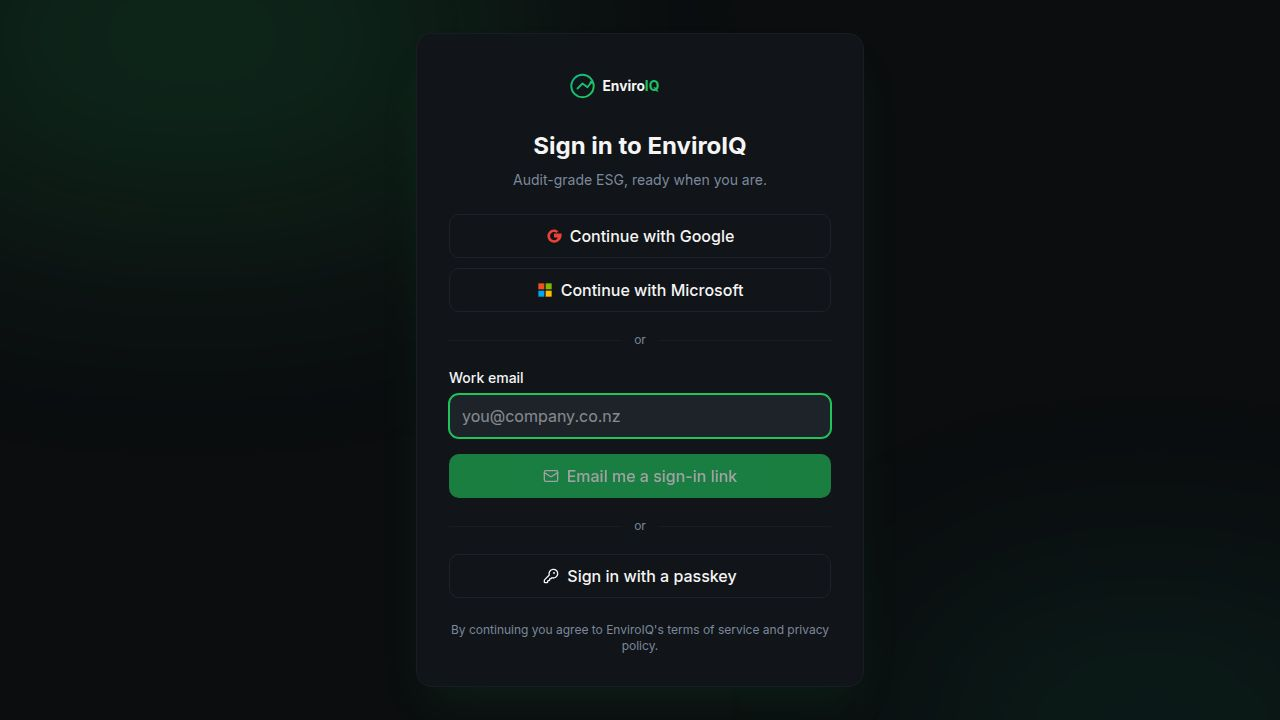
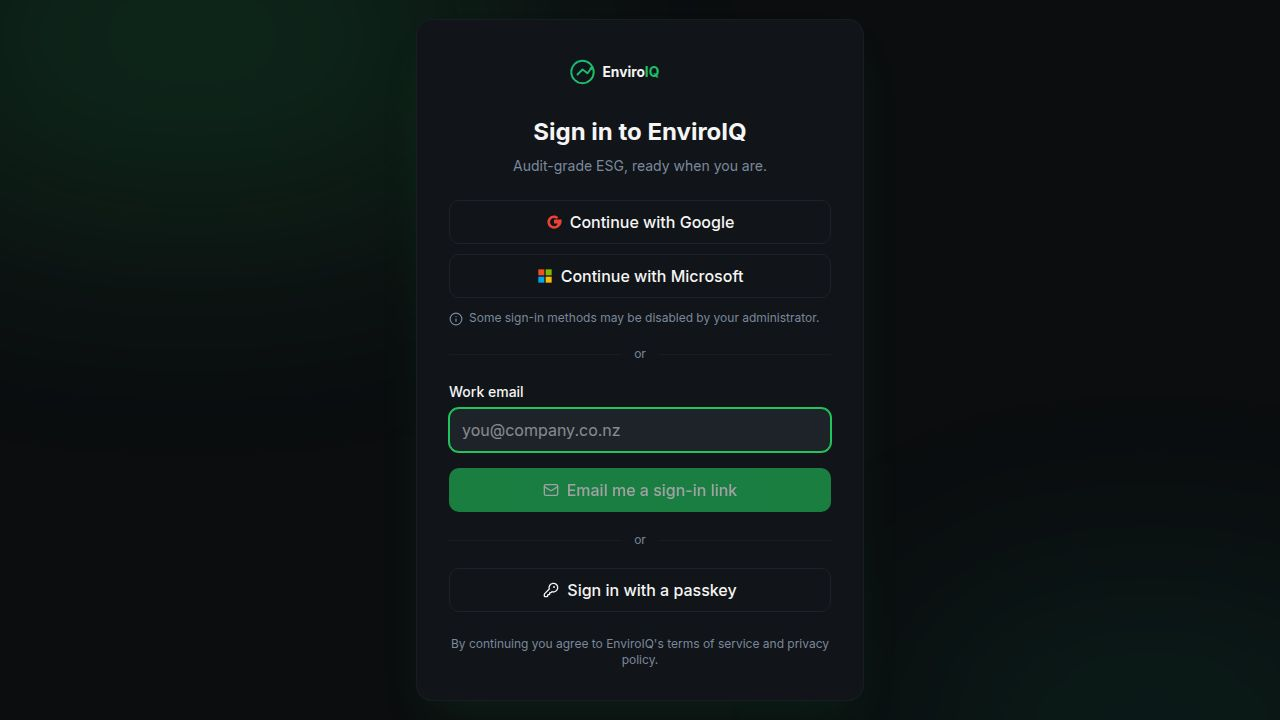
Show users which sign-in restrictions apply when they're blocked (Task #11)
Original task: when a user is refused by org/user sign-in policy after an SSO
callback, the existing flow redirected to /app/sign-in?error=... but the UI
showed the same small inline alert as every other error. Legitimate users
didn't realise they needed to switch buttons.

Changes:

1. artifacts/enviroiq/src/pages/sign-in.tsx
   - Added a subtle, always-visible generic hint below the SSO buttons:
     "Some sign-in methods may be disabled by your administrator." This
     gives every user the same wording so it never leaks who has which
     restrictions.
   - Added a prominent amber callout (ShieldAlert icon) at the top of the
     card for the three "method blocked by policy" error codes:
     sso_method_not_allowed, sso_required_provider_mismatch,
     sso_provider_disabled. Wording is tailored by reading a new
     `source=user|org` query param: "your account" for per-user overrides,
     "your organisation" for org-level policy. All other error codes still
     use the original inline alert.

2. artifacts/api-server/src/routes/auth.ts
   - ssoErrorRedirect now accepts an optional `source` and includes it in
     the redirect URL. The SSO callback passes `policy.source` through
     (returned by checkSignInMethodAllowed) only for policy refusals — safe
     because the user has already verified email at the IdP, so we are not
     enumerating accounts.
   - The sso.sign_in.rejected audit entry now also records
[…]

diff --git a/artifacts/enviroiq/src/pages/sign-in.tsx b/artifacts/enviroiq/src/pages/sign-in.tsx
@@ -1,6 +1,6 @@
 import { useEffect, useState } from "react";
 import { useLocation } from "wouter";
-import { Loader2, Mail, KeyRound, CheckCircle2, AlertCircle } from "lucide-react";
+import { Loader2, Mail, KeyRound, CheckCircle2, AlertCircle, ShieldAlert, Info } from "lucide-react";
 import { useAuth } from "@/hooks/use-auth";
 import { isPasskeySupported, signInWithPasskey } from "@/lib/webauthn";
 
@@ -30,6 +30,52 @@ const ERRORS: Record<string, string> = {
   sso_policy: "Sign-in is not permitted for your account right now. Contact your administrator.",
 };
 
+/**
+ * Error codes that mean "the IdP authenticated you but your org/account
+ * policy forbids this method". These get a more prominent, helpful UI
+ * because the user genuinely needs to switch sign-in methods — a small
+ * inline error banner is easy to miss.
+ */
+const RESTRICTION_CODES = new Set([
+  "sso_method_not_allowed",
+  "sso_required_provider_mismatch",
+  "sso_provider_disabled",
+]);
+
+/**
+ * Build a clear "this method isn't available for your <scope>" message.
+ * `source` is provided by the API after a verified SSO callback: "user"
+ * means a per-user override is the deciding policy, "org" means it's the
+ * org-wide setting. We never show this when there's no error — listing
+ * disabled methods up front would leak admin policy.
+ */
+function restrictionMessage(code: string, source: "user" | "org" | null): {
+  title: string;
+  body: string;
+} {
+  const scope = source === "user" ? "your account" : "your organisation";
+  if (code === "sso_required_provider_mismatch") {
+    return {
+      title: "Try a different sign-in method",
+      body:
+        source === "user"
+          ? "Your account is restricted to a specific sign-in provider. Use the other button above, or ask your administrator to update your access."
+          : "This organisation requires a specific sign-in provider. Use the other button above, or contact your administrator if you think this is wrong.",
+    };
+  }
+  if (code === "sso_provider_disabled") {
+    return {
+      title: "That sign-in provider is turned off",
+      body: `That provider has been disabled for ${scope}. Try a different button above, or contact your administrator.`,
+    };
+  }
+  // sso_method_not_allowed
+  return {
+    title: "Sign-in method not available",
+    body: `That sign-in method isn't enabled for ${scope}. Try a different button above, or contact your administrator if you think this is wrong.`,
+  };
+}
+
 const GoogleIcon = () => (
   <svg viewBox="0 0 24 24" className="h-4 w-4" aria-hidden="true">
     <path
@@ -54,7 +100,15 @@ export default function SignInPage() {
 
   const params = new URLSearchParams(window.location.search);
   const errorCode = params.get("error");
-  const initialError = errorCode ? ERRORS[errorCode] || ERRORS.server_error : null;
+  const sourceParam = params.get("source");
+  const errorSource: "user" | "org" | null =
+    sourceParam === "user" || sourceParam === "org" ? sourceParam : null;
+  const isRestrictionError = !!errorCode && RESTRICTION_CODES.has(errorCode);
+  const restriction = isRestrictionError ? restrictionMessage(errorCode!, errorSource) : null;
+  // Restriction errors get the dedicated callout (rendered above the buttons),
+  // so we don't double-render them in the small inline alert below the form.
+  const initialError =
+    errorCode && !isRestrictionError ? ERRORS[errorCode] || ERRORS.server_error : null;
   const redirectTarget = (() => {
     const r = params.get("redirect_url");
     if (!r) return "/dashboard";
@@ -197,9 +251,29 @@ export default function SignInPage() {
             </div>
           ) : (
             <>
+              {/* Restriction callout — shown only when the IdP authenticated
+                  the user but their org/account policy refused the chosen
+                  method. Rendered above the buttons so it's the first thing
+                  the user sees, with concrete next steps. */}
+              {restriction && (
+                <div
+                  className="mb-5 rounded-lg border border-amber-500/40 bg-amber-500/10 p-4"
+                  role="alert"
+                  data-testid="alert-method-restricted"
+                >
+                  <div className="flex gap-3">
+                    <ShieldAlert className="h-5 w-5 text-amber-500 flex-shrink-0 mt-0.5" />
+                    <div className="space-y-1">
+                      <h2 className="text-sm font-semibold text-foreground">{restriction.title}</h2>
+                      <p className="text-sm text-muted-foreground">{restriction.body}</p>
+                    </div>
+                  </div>
+                </div>
+              )}
+
               {/* SSO buttons — full-page navigation, not fetch, so the browser
                   follows the provider 302 redirect. */}
-              <div className="space-y-2.5 mb-5">
+              <div className="space-y-2.5 mb-3">
                 <a
                   href="/api/auth/sso/google/start"
                   className="w-full h-11 rounded-md border border-border bg-card hover:bg-muted/40 transition-colors text-foreground font-medium inline-flex items-center justify-center gap-2"
@@ -218,7 +292,18 @@ export default function SignInPage() {
                 </a>
               </div>
 
-              <div className="my-5 flex items-center gap-3">
+              {/* Generic, non-enumerating hint. Tells legitimate users why a
+                  button might not work without revealing whose account is
+                  restricted to what — every user sees the same text. */}
+              <p
+                className="flex items-start gap-1.5 text-xs text-muted-foreground"
+                data-testid="text-method-hint"
+              >
+                <Info className="h-3.5 w-3.5 flex-shrink-0 mt-0.5" aria-hidden="true" />
+                <span>Some sign-in methods may be disabled by your administrator.</span>
+              </p>
+
+              <div className="mt-5 mb-5 flex items-center gap-3">
                 <div className="h-px flex-1 bg-border/60" />
                 <span className="text-xs text-muted-foreground">or</span>
                 <div className="h-px flex-1 bg-border/60" />

diff --git a/artifacts/api-server/src/routes/__tests__/auth.sso-callback.test.ts b/artifacts/api-server/src/routes/__tests__/auth.sso-callback.test.ts
@@ -651,7 +651,7 @@ describe("GET /api/auth/sso/:provider/callback", () => {
 
       expect(res.status).toBe(302);
       expect(res.headers.location).toMatch(
-        /\/app\/sign-in\?error=sso_required_provider_mismatch$/,
+        /\/app\/sign-in\?error=sso_required_provider_mismatch&source=org$/,
       );
 
       const rejected = getAuditCalls().filter((a) => a.action === "sso.sign_in.rejected");
@@ -659,11 +659,100 @@ describe("GET /api/auth/sso/:provider/callback", () => {
         outcome: "failure",
         organisationId: "org-1",
         userId: "user-1",
-        details: { provider: "google", reason: "required_provider_mismatch" },
+        details: { provider: "google", reason: "required_provider_mismatch", source: "org" },
       });
 
       const me = await agent.get("/__test/whoami");
       expect(me.body.userId).toBeNull();
+    });
+
+    it("redirects with source=user when a per-user override forces the wrong provider", async () => {
+      // Per-user requiredSignInProvider overrides org policy. The redirect
+      // must include source=user so the sign-in page can phrase the message
+      // as "your account" rather than "your organisation".
+      dbState.organisation = { ...baseOrg, requiredSsoProvider: null };
+      dbState.user = {
+        ...baseUser,
+        role: "org_user",
+        requiredSignInProvider: "microsoft",
+      };
+
+      const app = makeApp();
+      const agent = request.agent(app);
+      const { state, nonce } = await startSso(agent, "google");
+
+      tokenHandler = async () => {
+        const id_token = await signIdToken({
+          iss: GOOGLE_ISS,
+          aud: "test-google-client",
+          sub: "google-sub-1",
+          email: "user@example.com",
+          emailVerified: true,
+          nonce,
+        });
+        return new Response(JSON.stringify({ id_token }), {
+          status: 200,
+          headers: { "content-type": "application/json" },
+        });
+      };
+
+      const res = await agent
+        .get(`/api/auth/sso/google/callback?code=auth-code&state=${state}`)
+        .redirects(0);
+
+      expect(res.status).toBe(302);
+      expect(res.headers.location).toMatch(
+        /\/app\/sign-in\?error=sso_required_provider_mismatch&source=user$/,
+      );
+
+      const rejected = getAuditCalls().filter((a) => a.action === "sso.sign_in.rejected");
+      expect(rejected[0]).toMatchObject({
+        details: { source: "user" },
+      });
+    });
+
+    it("redirects with source=org when the org allow-list excludes the chosen provider", async () => {
+      // Org-level allow-list refusal — the user has no per-user override, so
+      // source must be "org".
+      dbState.organisation = {
+        ...baseOrg,
+        requiredSsoProvider: null,
+        allowedSignInMethods: ["magic_link", "microsoft_sso"],
+      };
+      dbState.user = { ...baseUser, role: "org_user" };
+
+      const app = makeApp();
+      const agent = request.agent(app);
+      const { state, nonce } = await startSso(agent, "google");
+
+      tokenHandler = async () => {
+        const id_token = await signIdToken({
+          iss: GOOGLE_ISS,
+          aud: "test-google-client",
+          sub: "google-sub-1",
+          email: "user@example.com",
+          emailVerified: true,
+          nonce,
+        });
+        return new Response(JSON.stringify({ id_token }), {
+          status: 200,
+          headers: { "content-type": "application/json" },
+        });
+      };
+
+      const res = await agent
+        .get(`/api/auth/sso/google/callback?code=auth-code&state=${state}`)
+        .redirects(0);
+
+      expect(res.status).toBe(302);
+      expect(res.headers.location).toMatch(
+        /\/app\/sign-in\?error=sso_method_not_allowed&source=org$/,
+      );
+
+      const rejected = getAuditCalls().filter((a) => a.action === "sso.sign_in.rejected");
+      expect(rejected[0]).toMatchObject({
+        details: { provider: "google", reason: "method_not_allowed", source: "org" },
+      });
     });
 
     it("allows an org_admin signing in via the required provider (no policy bypass needed)", async () => {
@@ -743,7 +832,7 @@ describe("GET /api/auth/sso/:provider/callback", () => {
 
       expect(res.status).toBe(302);
       expect(res.headers.location).toMatch(
-        /\/app\/sign-in\?error=sso_required_provider_mismatch$/,
+        /\/app\/sign-in\?error=sso_required_provider_mismatch&source=org$/,
       );
 
       const me = await agent.get("/__test/whoami");

diff --git a/artifacts/api-server/src/routes/auth.ts b/artifacts/api-server/src/routes/auth.ts
@@ -702,11 +702,22 @@ void pruneExpiredChallenges; // silence unused-var lint
 
 const SSO_FLOW_TTL_MS = 10 * 60 * 1000; // 10 minutes
 
-function ssoErrorRedirect(req: Request, res: Response, code: string): void {
+function ssoErrorRedirect(
+  req: Request,
+  res: Response,
+  code: string,
+  source?: "user" | "org",
+): void {
   // Land the user back on the sign-in page with a recognisable code; the UI
   // surfaces a friendly message. Never include any provider-side detail.
+  // `source` is included only for policy-driven refusals so the UI can phrase
+  // the message as "your account" (per-user override) vs "your organisation"
+  // (org-level policy). This is safe because the user has already proven
+  // ownership of the email at the IdP — we are not enumerating accounts.
   const base = appBaseUrl(req);
-  res.redirect(`${base}/app/sign-in?error=sso_${encodeURIComponent(code)}`);
+  const qs = new URLSearchParams({ error: `sso_${code}` });
+  if (source) qs.set("source", source);
+  res.redirect(`${base}/app/sign-in?${qs.toString()}`);
 }
 
 function safeReturnTo(raw: unknown): string | undefined {
@@ -924,10 +935,13 @@ router.get("/sso/:provider/callback", async (req, res) => {
         organisationId: user.organisationId ?? undefined,
         userId: user.id,
         userEmail: verified.email,
-        details: { provider, reason: policy.reason },
+        details: { provider, reason: policy.reason, source: policy.source },
       });
       delete req.session.oidcFlow;
-      ssoErrorRedirect(req, res, policy.reason || "policy");
+      // Pass policy.source through so the sign-in page can phrase the
+      // message correctly ("your account" vs "your organisation"). Safe to
+      // surface here because the user has already verified email at the IdP.
+      ssoErrorRedirect(req, res, policy.reason || "policy", policy.source);
       return;
     }
 
